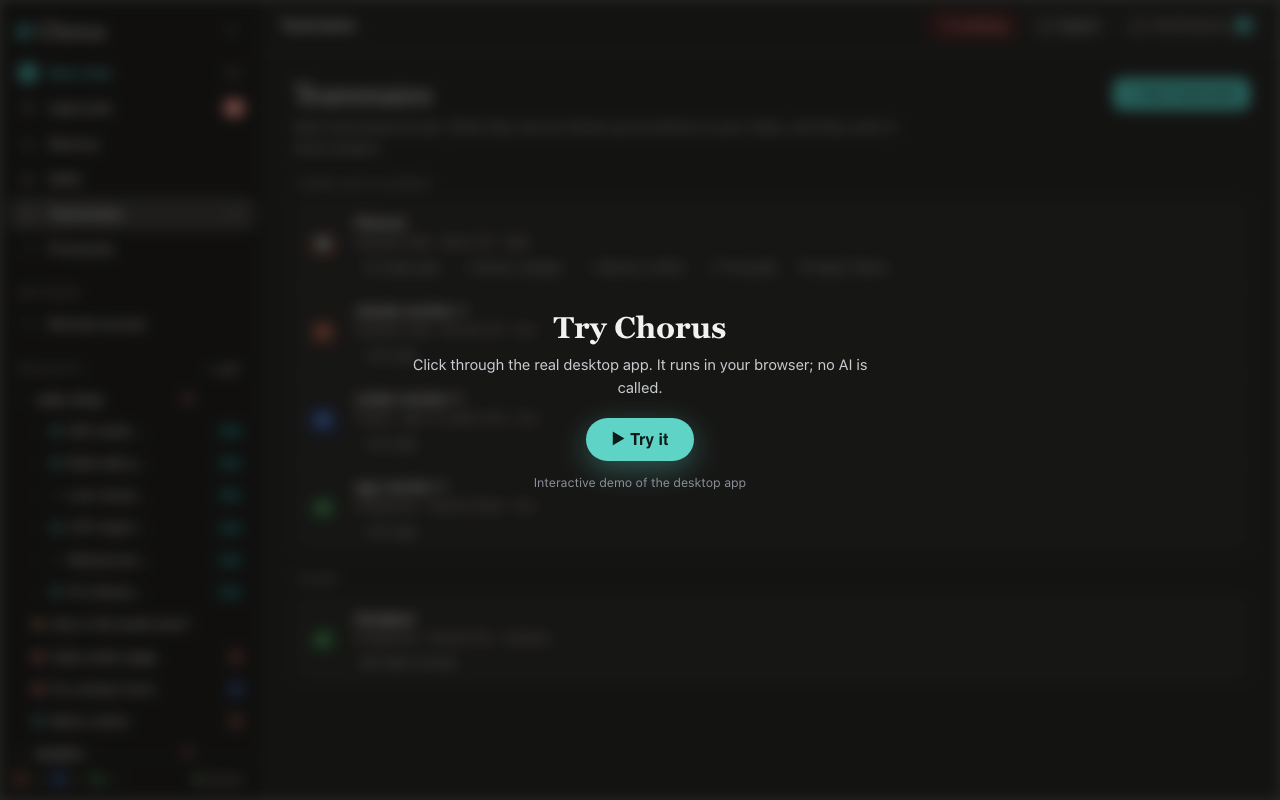
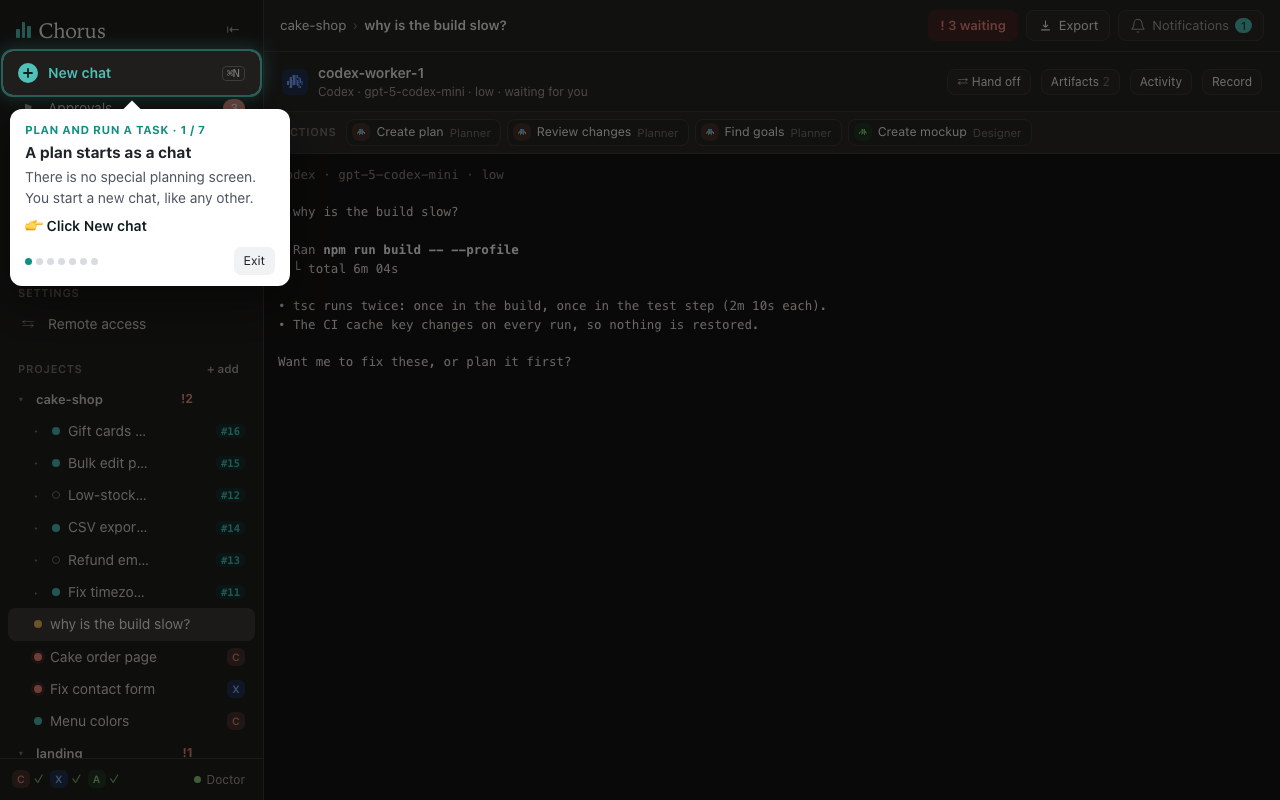
docs: README's Try picture is the tour's first step, and links to it
The picture shows the app with step 1 of Plan and run a task highlighted
(Click New chat) instead of the blurred cover, and the link opens that
same step.

diff --git a/README.md b/README.md
@@ -10,10 +10,10 @@ and nothing is lost on the way.
 
 ### Try it in your browser
 
-Click through the real desktop app: plan and run a task, hand off a chat, build your team or watch a project. A few clicks
-each, and the app points at every one. No install, no AI called.
+Click through the real desktop app. Follow the highlighted button to plan and run a task; then try a handoff, your team
+or a project. A few clicks each, and the app points at every one. No install, no AI called.
 
-[![Try Chorus: click to start the guided tour](docs/media/try-chorus.png)](https://chorus-cli.web.app/tour)
+[![Try Chorus: the desktop app with its first step highlighted, Click New chat](docs/media/try-chorus.png)](https://chorus-cli.web.app/tour?try&flow=plan&demo=tk4&theme=dark)
 
 - **The real CLI, untouched.** Claude Code, Codex and Antigravity run as themselves, with every command, shortcut and feature you know. You keep working the way you already do; Chorus adds what's around it.
 - **No more ten terminal windows.** Every session sits in one sidebar.
